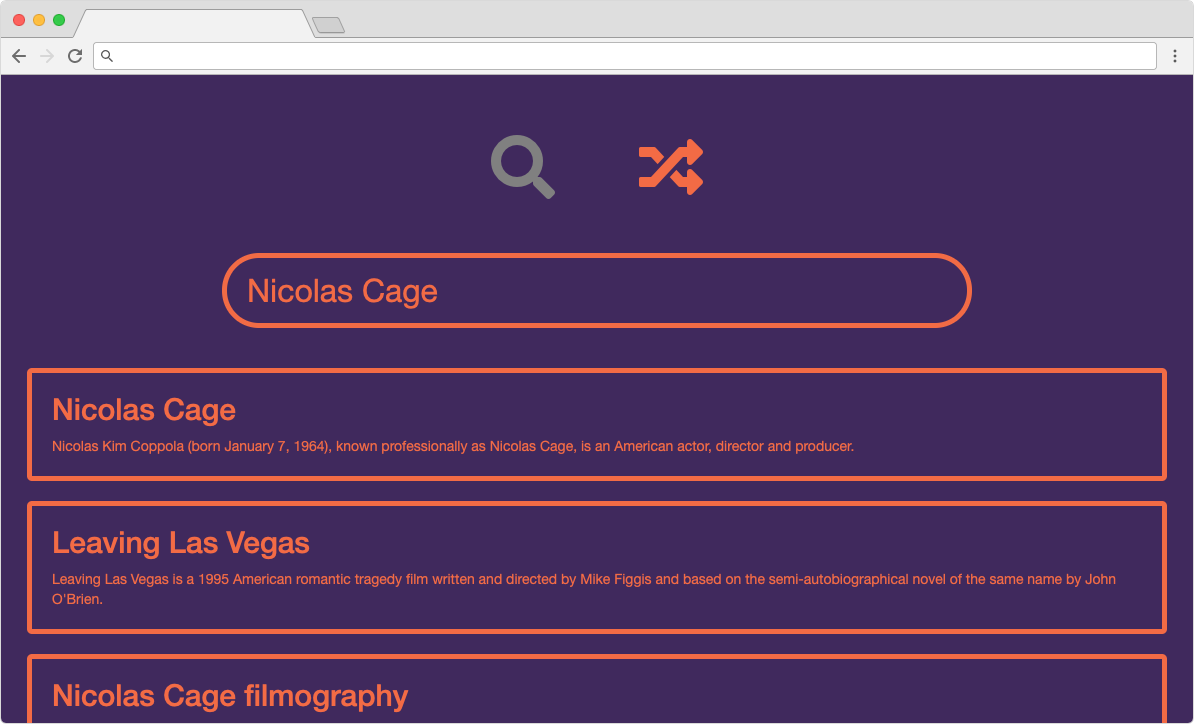
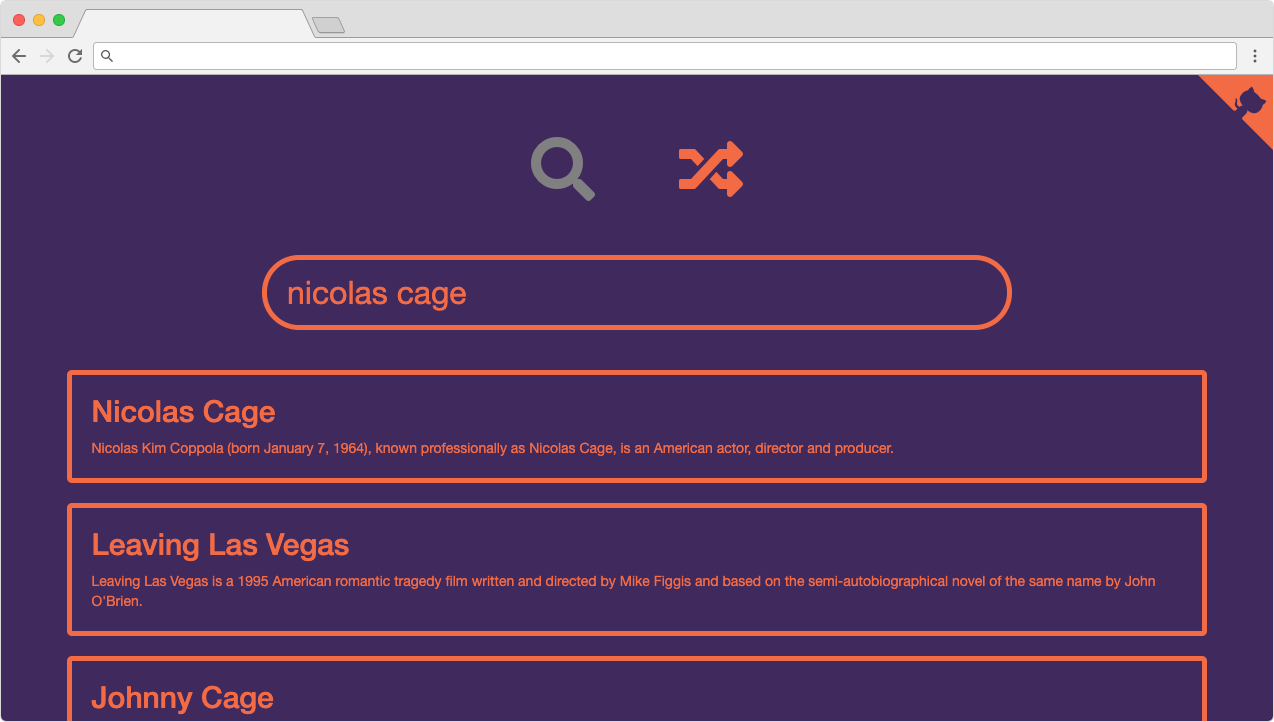
WIP

diff --git a/projects/wikipedia-viewer/src/index.html b/projects/wikipedia-viewer/src/index.html
@@ -28,7 +28,7 @@
 
 <body class="container-fluid text-center">
   <!-- Taken from https://github.com/tholman/github-corners -->
-  <a href="https://github.com/vanillaSlice/WikipediaViewer" class="github-corner" aria-label="View source on GitHub">
+  <a href="https://github.com/vanillaSlice/the-mono/tree/main/projects/wikipedia-viewer" class="github-corner" aria-label="View source on GitHub">
     <svg width="80" height="80" viewBox="0 0 250 250" style="fill:#ef6d3b; color:#3f2860; position: absolute; top: 0; border: 0; right: 0;" aria-hidden="true">
       <path d="M0,0 L115,115 L130,115 L142,142 L250,250 L250,0 Z"></path>
       <path d="M128.3,109.0 C113.8,99.7 119.0,89.6 119.0,89.6 C122.0,82.7 120.5,78.6 120.5,78.6 C119.2,72.0 123.4,76.3 123.4,76.3 C127.3,80.9 125.5,87.3 125.5,87.3 C122.9,97.6 130.6,101.9 134.4,103.2" fill="currentColor" style="transform-origin: 130px 106px;" class="octo-arm"></path>

diff --git a/projects/wikipedia-viewer/README.md b/projects/wikipedia-viewer/README.md
@@ -1,8 +1,7 @@
 # Wikipedia Viewer
 
-[![Latest Release](https://img.shields.io/github/release/vanillaSlice/WikipediaViewer.svg)](https://github.com/vanillaSlice/WikipediaViewer/releases/latest)
-[![Build Status](https://img.shields.io/travis/com/vanillaSlice/WikipediaViewer/master.svg)](https://travis-ci.com/vanillaSlice/WikipediaViewer)
-[![License](https://img.shields.io/github/license/vanillaSlice/WikipediaViewer.svg)](LICENSE)
+[![Build Status](https://img.shields.io/github/workflow/status/vanillaSlice/the-mono/Wikipedia%20Viewer/main)](https://github.com/vanillaSlice/the-mono/actions?query=workflow%3AWikipedia-Viewer+branch%3Amain)
+[![License](https://img.shields.io/badge/license-MIT-green)](LICENSE)
 
 *Intermediate Front End Development Project for FreeCodeCamp.*
 
@@ -10,7 +9,7 @@ A simple Wikipedia Viewer. A deployed version can be viewed [here](https://wikip
 
 ## Screenshot
 
-![Screenshot](/images/screenshot-2.png)
+![Screenshot](./images/screenshot-1.png)
 
 ## Getting Started
 
